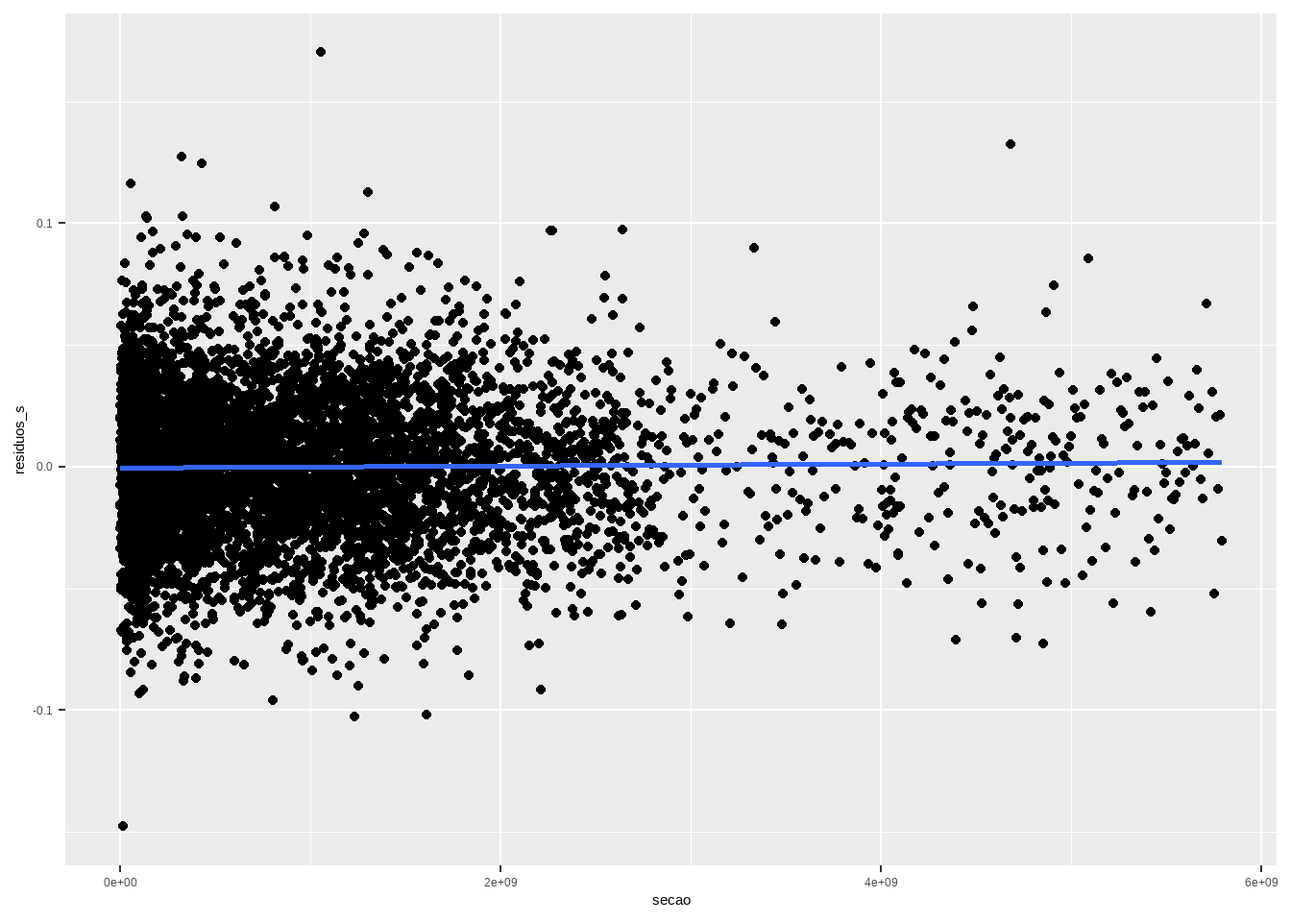
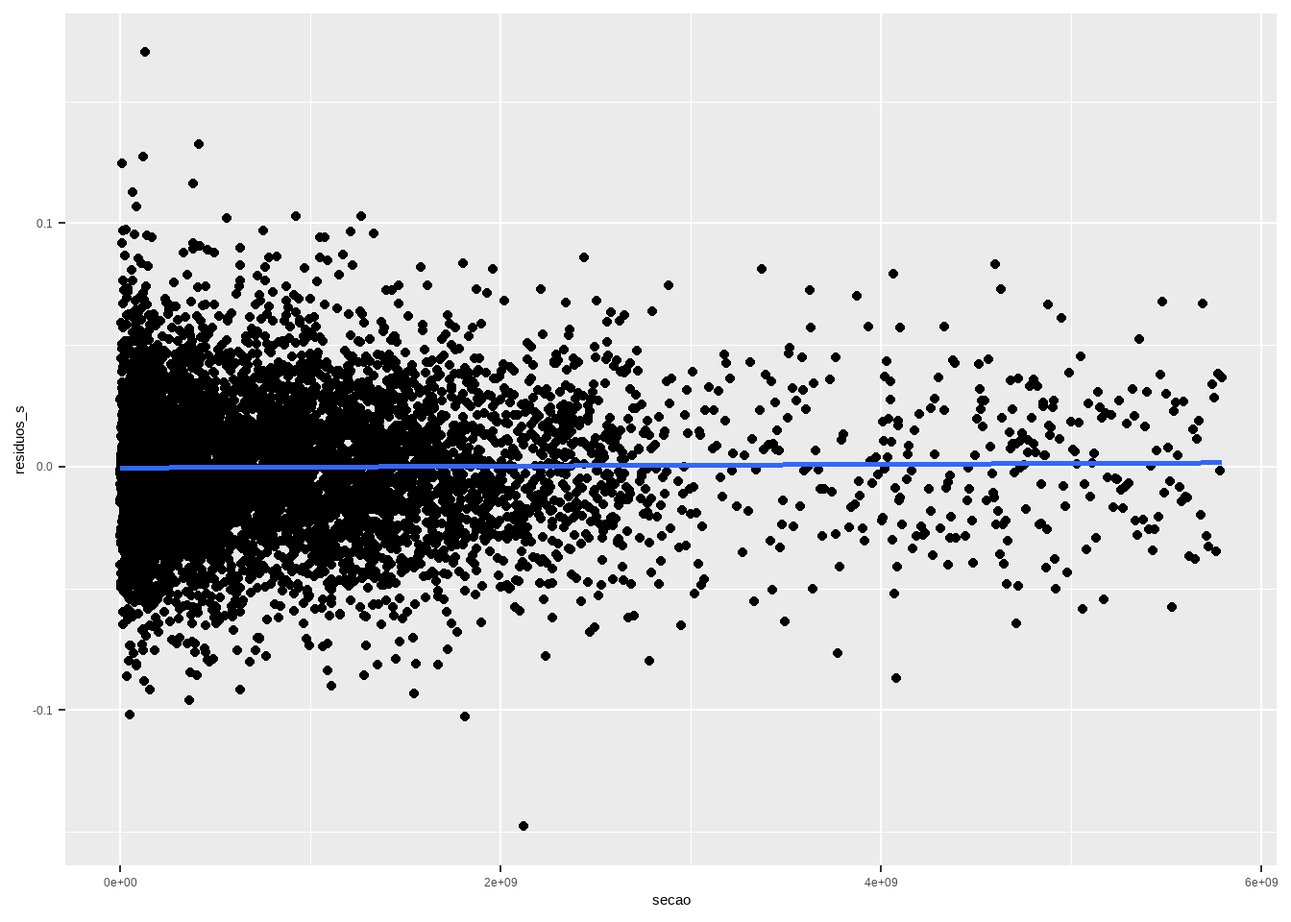
Mostrar código em R.

Changed region(s): [[0.0938, 0.1875, 0.9688, 0.7812], [0.7812, 0.6875, 0.8125, 0.7188], [0.125, 0.1562, 0.1562, 0.1875]]

diff --git a/docs/checagem.html b/docs/checagem.html
@@ -23,7 +23,7 @@
 <meta name="author" content="Manoel Galdino" />
 
 
-<meta name="date" content="2023-10-17" />
+<meta name="date" content="2023-11-07" />
 
   <meta name="viewport" content="width=device-width, initial-scale=1" />
   <meta name="apple-mobile-web-app-capable" content="yes" />
@@ -52,8 +52,6 @@
 <link href="libs/anchor-sections-1.1.0/anchor-sections.css" rel="stylesheet" />
 <link href="libs/anchor-sections-1.1.0/anchor-sections-hash.css" rel="stylesheet" />
 <script src="libs/anchor-sections-1.1.0/anchor-sections.js"></script>
-<script src="libs/kePrint-0.0.1/kePrint.js"></script>
-<link href="libs/lightable-0.0.1/lightable.css" rel="stylesheet" />
 
 
 <style type="text/css">
@@ -204,22 +202,23 @@ code span.wa { color: #60a0b0; font-weight: bold; font-style: italic; } /* Warni
 <li class="chapter" data-level="6.3.2" data-path="cef-1.html"><a href="cef-1.html#a-esperança-não-condicional-do-erro-é-zero."><i class="fa fa-check"></i><b>6.3.2</b> A esperança (não-condicional) do erro é zero.</a></li>
 <li class="chapter" data-level="6.3.3" data-path="cef-1.html"><a href="cef-1.html#o-erro-da-cef-é-não-correlacionado-com-x"><i class="fa fa-check"></i><b>6.3.3</b> O erro da CEF é não-correlacionado com X</a></li>
 </ul></li>
-<li class="chapter" data-level="6.4" data-path="cef-1.html"><a href="cef-1.html#regressão-linear-e-a-cef"><i class="fa fa-check"></i><b>6.4</b> Regressão Linear e a CEF</a>
+<li class="chapter" data-level="6.4" data-path="cef-1.html"><a href="cef-1.html#a-esperança-condicional-é-o-melhor-preditor"><i class="fa fa-check"></i><b>6.4</b> A esperança condicional é o melhor preditor</a></li>
+<li class="chapter" data-level="6.5" data-path="cef-1.html"><a href="cef-1.html#regressão-linear-e-a-cef"><i class="fa fa-check"></i><b>6.5</b> Regressão Linear e a CEF</a>
 <ul>
-<li class="chapter" data-level="6.4.1" data-path="cef-1.html"><a href="cef-1.html#mínimos-quadrados-ordinários"><i class="fa fa-check"></i><b>6.4.1</b> Mínimos Quadrados Ordinários</a></li>
-<li class="chapter" data-level="6.4.2" data-path="cef-1.html"><a href="cef-1.html#suponha-que-a-cef-é-linear-justificativa-i"><i class="fa fa-check"></i><b>6.4.2</b> Suponha que a CEF é Linear (Justificativa I)</a></li>
-<li class="chapter" data-level="6.4.3" data-path="cef-1.html"><a href="cef-1.html#é-o-melhor-preditor-linear-do-y-justificativa-ii"><i class="fa fa-check"></i><b>6.4.3</b> É o melhor preditor linear do <span class="math inline">\(Y\)</span> (justificativa II)</a></li>
-<li class="chapter" data-level="6.4.4" data-path="cef-1.html"><a href="cef-1.html#a-reta-de-regressão-é-a-aproximação-com-o-menor-erro-quadrático-médio-justificativa-iii"><i class="fa fa-check"></i><b>6.4.4</b> A reta de regressão é a aproximação com o menor erro quadrático médio (justificativa III)</a></li>
+<li class="chapter" data-level="6.5.1" data-path="cef-1.html"><a href="cef-1.html#mínimos-quadrados-ordinários"><i class="fa fa-check"></i><b>6.5.1</b> Mínimos Quadrados Ordinários</a></li>
+<li class="chapter" data-level="6.5.2" data-path="cef-1.html"><a href="cef-1.html#suponha-que-a-cef-é-linear-justificativa-i"><i class="fa fa-check"></i><b>6.5.2</b> Suponha que a CEF é Linear (Justificativa I)</a></li>
+<li class="chapter" data-level="6.5.3" data-path="cef-1.html"><a href="cef-1.html#é-o-melhor-preditor-linear-do-y-justificativa-ii"><i class="fa fa-check"></i><b>6.5.3</b> É o melhor preditor linear do <span class="math inline">\(Y\)</span> (justificativa II)</a></li>
+<li class="chapter" data-level="6.5.4" data-path="cef-1.html"><a href="cef-1.html#a-reta-de-regressão-é-a-aproximação-com-o-menor-erro-quadrático-médio-justificativa-iii"><i class="fa fa-check"></i><b>6.5.4</b> A reta de regressão é a aproximação com o menor erro quadrático médio (justificativa III)</a></li>
 </ul></li>
-<li class="chapter" data-level="6.5" data-path="cef-1.html"><a href="cef-1.html#linearidade-e-causalidade"><i class="fa fa-check"></i><b>6.5</b> Linearidade e Causalidade</a></li>
-<li class="chapter" data-level="6.6" data-path="cef-1.html"><a href="cef-1.html#modelo-só-com-intercepto"><i class="fa fa-check"></i><b>6.6</b> Modelo só com intercepto</a></li>
-<li class="chapter" data-level="6.7" data-path="cef-1.html"><a href="cef-1.html#variância-da-regressão"><i class="fa fa-check"></i><b>6.7</b> Variância da Regressão</a>
+<li class="chapter" data-level="6.6" data-path="cef-1.html"><a href="cef-1.html#linearidade-e-causalidade"><i class="fa fa-check"></i><b>6.6</b> Linearidade e Causalidade</a></li>
+<li class="chapter" data-level="6.7" data-path="cef-1.html"><a href="cef-1.html#modelo-só-com-intercepto"><i class="fa fa-check"></i><b>6.7</b> Modelo só com intercepto</a></li>
+<li class="chapter" data-level="6.8" data-path="cef-1.html"><a href="cef-1.html#variância-da-regressão"><i class="fa fa-check"></i><b>6.8</b> Variância da Regressão</a>
 <ul>
-<li class="chapter" data-level="6.7.1" data-path="cef-1.html"><a href="cef-1.html#chuva-na-jamaica"><i class="fa fa-check"></i><b>6.7.1</b> Chuva na Jamaica</a></li>
+<li class="chapter" data-level="6.8.1" data-path="cef-1.html"><a href="cef-1.html#chuva-na-jamaica"><i class="fa fa-check"></i><b>6.8.1</b> Chuva na Jamaica</a></li>
 </ul></li>
-<li class="chapter" data-level="6.8" data-path="cef-1.html"><a href="cef-1.html#variância-condicional"><i class="fa fa-check"></i><b>6.8</b> Variância condicional</a></li>
-<li class="chapter" data-level="6.9" data-path="cef-1.html"><a href="cef-1.html#efeito-marginal"><i class="fa fa-check"></i><b>6.9</b> Efeito Marginal</a></li>
-<li class="chapter" data-level="6.10" data-path="cef-1.html"><a href="cef-1.html#cef-linear-com-preditores-não-lineares"><i class="fa fa-check"></i><b>6.10</b> CEF linear com preditores não-lineares</a></li>
+<li class="chapter" data-level="6.9" data-path="cef-1.html"><a href="cef-1.html#variância-condicional"><i class="fa fa-check"></i><b>6.9</b> Variância condicional</a></li>
+<li class="chapter" data-level="6.10" data-path="cef-1.html"><a href="cef-1.html#efeito-marginal"><i class="fa fa-check"></i><b>6.10</b> Efeito Marginal</a></li>
+<li class="chapter" data-level="6.11" data-path="cef-1.html"><a href="cef-1.html#cef-linear-com-preditores-não-lineares"><i class="fa fa-check"></i><b>6.11</b> CEF linear com preditores não-lineares</a></li>
 </ul></li>
 <li class="chapter" data-level="7" data-path="estimação.html"><a href="estimação.html"><i class="fa fa-check"></i><b>7</b> - Estimação</a>
 <ul>
@@ -251,7 +250,12 @@ code span.wa { color: #60a0b0; font-weight: bold; font-style: italic; } /* Warni
 <li class="chapter" data-level="8.3" data-path="causalidade.html"><a href="causalidade.html#simulação-de-resultados-potenciais-e-causalidade"><i class="fa fa-check"></i><b>8.3</b> Simulação de Resultados Potenciais e Causalidade</a></li>
 <li class="chapter" data-level="8.4" data-path="causalidade.html"><a href="causalidade.html#referências"><i class="fa fa-check"></i><b>8.4</b> Referências</a></li>
 </ul></li>
-<li class="chapter" data-level="9" data-path="mle.html"><a href="mle.html"><i class="fa fa-check"></i><b>9</b> - MLE</a></li>
+<li class="chapter" data-level="9" data-path="mle.html"><a href="mle.html"><i class="fa fa-check"></i><b>9</b> - MLE</a>
+<ul>
+<li class="chapter" data-level="9.1" data-path="mle.html"><a href="mle.html#estimação-por-máxima-verossimilhança"><i class="fa fa-check"></i><b>9.1</b> Estimação por Máxima Verossimilhança</a></li>
+<li class="chapter" data-level="9.2" data-path="mle.html"><a href="mle.html#teste-de-hipótese"><i class="fa fa-check"></i><b>9.2</b> Teste de hipótese</a></li>
+<li class="chapter" data-level="9.3" data-path="mle.html"><a href="mle.html#regressão"><i class="fa fa-check"></i><b>9.3</b> regressão</a></li>
+</ul></li>
 <li class="chapter" data-level="10" data-path="checagem.html"><a href="checagem.html"><i class="fa fa-check"></i><b>10</b> - Checagem</a>
 <ul>
 <li class="chapter" data-level="10.1" data-path="checagem.html"><a href="checagem.html#resíduos"><i class="fa fa-check"></i><b>10.1</b> Resíduos</a></li>
@@ -267,7 +271,7 @@ code span.wa { color: #60a0b0; font-weight: bold; font-style: italic; } /* Warni
 <li class="chapter" data-level="11.1" data-path="inferencia.html"><a href="inferencia.html#normal"><i class="fa fa-check"></i><b>11.1</b> Normal</a></li>
 <li class="chapter" data-level="11.2" data-path="inferencia.html"><a href="inferencia.html#t-student"><i class="fa fa-check"></i><b>11.2</b> T-student</a></li>
 <li class="chapter" data-level="11.3" data-path="inferencia.html"><a href="inferencia.html#intervalo-de-confiança"><i class="fa fa-check"></i><b>11.3</b> Intervalo de Confiança</a></li>
-<li class="chapter" data-level="11.4" data-path="inferencia.html"><a href="inferencia.html#teste-de-hipótese"><i class="fa fa-check"></i><b>11.4</b> Teste de Hipótese</a></li>
+<li class="chapter" data-level="11.4" data-path="inferencia.html"><a href="inferencia.html#teste-de-hipótese-1"><i class="fa fa-check"></i><b>11.4</b> Teste de Hipótese</a></li>
 <li class="chapter" data-level="11.5" data-path="inferencia.html"><a href="inferencia.html#p-valor"><i class="fa fa-check"></i><b>11.5</b> P-valor</a></li>
 </ul></li>
 <li class="chapter" data-level="12" data-path="regressao-multipla.html"><a href="regressao-multipla.html"><i class="fa fa-check"></i><b>12</b> - Regressao Multipla</a>
@@ -332,6 +336,26 @@ Eis algumas propriedade dos resíduos.
 <h2><span class="header-section-number">10.2</span> Modelo no R<a href="checagem.html#modelo-no-r" class="anchor-section" aria-label="Anchor link to header"></a></h2>
 <p>Para fazer os testes do nosso modelo, vamos fazer um modelo preditivo. Vou utilizar a votação no primeiro turno presidencial de 2018 para prever o voto no segundo turno, no estado de Alagoas. Para tanto, vamos baixar os dados de votação presidencial de 2018 ao nível de seção eleitoral do portal de dados abertos do TSE para o estado de Alagoas (para ter uma base de dados pequena):
 <a href="https://dadosabertos.tse.jus.br/dataset/resultados-2018" class="uri">https://dadosabertos.tse.jus.br/dataset/resultados-2018</a></p>
+<div class="sourceCode" id="cb1"><pre class="sourceCode r"><code class="sourceCode r"><span id="cb1-1"><a href="checagem.html#cb1-1" tabindex="-1"></a><span class="fu">library</span>(data.table)</span>
+<span id="cb1-2"><a href="checagem.html#cb1-2" tabindex="-1"></a></span>
+<span id="cb1-3"><a href="checagem.html#cb1-3" tabindex="-1"></a><span class="co"># lista o nome do arquivo em csv</span></span>
+<span id="cb1-4"><a href="checagem.html#cb1-4" tabindex="-1"></a><span class="co"># unzip(here(&quot;dados&quot;, &quot;votacao_secao_2018_AL.zip&quot;), list = TRUE)</span></span>
+<span id="cb1-5"><a href="checagem.html#cb1-5" tabindex="-1"></a></span>
+<span id="cb1-6"><a href="checagem.html#cb1-6" tabindex="-1"></a></span>
+<span id="cb1-7"><a href="checagem.html#cb1-7" tabindex="-1"></a><span class="co">#read data1.csv into data frame</span></span>
+<span id="cb1-8"><a href="checagem.html#cb1-8" tabindex="-1"></a>presid_al18 <span class="ot">&lt;-</span> <span class="fu">fread</span>(<span class="fu">here</span>(<span class="st">&quot;dados&quot;</span>,<span class="st">&quot;votacao_secao_2018_BR.csv&quot;</span>), <span class="at">encoding =</span> <span class="st">&quot;Latin-1&quot;</span>)</span>
+<span id="cb1-9"><a href="checagem.html#cb1-9" tabindex="-1"></a></span>
+<span id="cb1-10"><a href="checagem.html#cb1-10" tabindex="-1"></a><span class="co"># filtrando só AL</span></span>
+<span id="cb1-11"><a href="checagem.html#cb1-11" tabindex="-1"></a></span>
+<span id="cb1-12"><a href="checagem.html#cb1-12" tabindex="-1"></a>presid_al18 <span class="ot">&lt;-</span> presid_al18 <span class="sc">%&gt;%</span></span>
+<span id="cb1-13"><a href="checagem.html#cb1-13" tabindex="-1"></a>  <span class="fu">filter</span>(SG_UF <span class="sc">==</span> <span class="st">&quot;AL&quot;</span>)</span>
+<span id="cb1-14"><a href="checagem.html#cb1-14" tabindex="-1"></a></span>
+<span id="cb1-15"><a href="checagem.html#cb1-15" tabindex="-1"></a><span class="co"># modelo voto em Bolsonaro 1t prediz voto no 2t</span></span>
+<span id="cb1-16"><a href="checagem.html#cb1-16" tabindex="-1"></a></span>
+<span id="cb1-17"><a href="checagem.html#cb1-17" tabindex="-1"></a><span class="co"># descobre o que é voto nulo e branco</span></span>
+<span id="cb1-18"><a href="checagem.html#cb1-18" tabindex="-1"></a>presid_al18 <span class="sc">%&gt;%</span></span>
+<span id="cb1-19"><a href="checagem.html#cb1-19" tabindex="-1"></a>  <span class="fu">group_by</span>(NM_VOTAVEL) <span class="sc">%&gt;%</span></span>
+<span id="cb1-20"><a href="checagem.html#cb1-20" tabindex="-1"></a>  <span class="fu">summarise</span>(<span class="fu">max</span>(NR_VOTAVEL))</span></code></pre></div>
 <pre><code>## # A tibble: 15 × 2
 ##    NM_VOTAVEL                                 `max(NR_VOTAVEL)`
 ##    &lt;chr&gt;                                                  &lt;int&gt;
@@ -350,6 +374,25 @@ Eis algumas propriedade dos resíduos.
 ## 13 VERA LUCIA PEREIRA DA SILVA SALGADO                       16
 ## 14 VOTO BRANCO                                               95
 ## 15 VOTO NULO                                                 96</code></pre>
+<div class="sourceCode" id="cb3"><pre class="sourceCode r"><code class="sourceCode r"><span id="cb3-1"><a href="checagem.html#cb3-1" tabindex="-1"></a><span class="co"># 95 e 96</span></span>
+<span id="cb3-2"><a href="checagem.html#cb3-2" tabindex="-1"></a>presid_al18_valido <span class="ot">&lt;-</span> presid_al18 <span class="sc">%&gt;%</span></span>
+<span id="cb3-3"><a href="checagem.html#cb3-3" tabindex="-1"></a>  <span class="fu">filter</span>(<span class="sc">!</span>NR_VOTAVEL <span class="sc">%in%</span> <span class="fu">c</span>(<span class="dv">95</span>,<span class="dv">96</span>)) <span class="sc">%&gt;%</span></span>
+<span id="cb3-4"><a href="checagem.html#cb3-4" tabindex="-1"></a>  <span class="fu">group_by</span>(NR_SECAO,NR_ZONA, CD_MUNICIPIO, NR_TURNO, NR_VOTAVEL ) <span class="sc">%&gt;%</span></span>
+<span id="cb3-5"><a href="checagem.html#cb3-5" tabindex="-1"></a>  <span class="fu">summarise</span>(<span class="at">validos =</span> <span class="fu">sum</span>(QT_VOTOS)) <span class="sc">%&gt;%</span></span>
+<span id="cb3-6"><a href="checagem.html#cb3-6" tabindex="-1"></a>  <span class="fu">mutate</span>(<span class="at">bol_bolsonaro =</span> NR_VOTAVEL <span class="sc">==</span> <span class="dv">17</span>,</span>
+<span id="cb3-7"><a href="checagem.html#cb3-7" tabindex="-1"></a>         <span class="at">validos_bolsonaro =</span> <span class="fu">sum</span>(validos<span class="sc">*</span>bol_bolsonaro)) <span class="sc">%&gt;%</span></span>
+<span id="cb3-8"><a href="checagem.html#cb3-8" tabindex="-1"></a>  <span class="fu">summarise</span>(<span class="at">total_validos =</span> <span class="fu">sum</span>(validos),</span>
+<span id="cb3-9"><a href="checagem.html#cb3-9" tabindex="-1"></a>            <span class="at">validos_bolsonaro =</span> <span class="fu">max</span>(validos_bolsonaro),</span>
+<span id="cb3-10"><a href="checagem.html#cb3-10" tabindex="-1"></a>            <span class="at">perc_bolsonaro =</span> validos_bolsonaro<span class="sc">/</span>total_validos) <span class="sc">%&gt;%</span></span>
+<span id="cb3-11"><a href="checagem.html#cb3-11" tabindex="-1"></a>  dplyr<span class="sc">::</span><span class="fu">select</span>(<span class="sc">-</span>total_validos) <span class="sc">%&gt;%</span></span>
+<span id="cb3-12"><a href="checagem.html#cb3-12" tabindex="-1"></a>  <span class="fu">pivot_wider</span>(<span class="at">id_cols =</span> <span class="fu">c</span>(NR_SECAO, NR_ZONA, CD_MUNICIPIO), <span class="at">names_from =</span> NR_TURNO, <span class="at">values_from =</span> perc_bolsonaro) <span class="sc">%&gt;%</span></span>
+<span id="cb3-13"><a href="checagem.html#cb3-13" tabindex="-1"></a>  <span class="fu">rename</span>(<span class="at">perc_bolso_turno1 =</span> <span class="st">&#39;1&#39;</span>,</span>
+<span id="cb3-14"><a href="checagem.html#cb3-14" tabindex="-1"></a>         <span class="at">perc_bolso_turno2 =</span> <span class="st">&#39;2&#39;</span>)</span>
+<span id="cb3-15"><a href="checagem.html#cb3-15" tabindex="-1"></a></span>
+<span id="cb3-16"><a href="checagem.html#cb3-16" tabindex="-1"></a><span class="co"># modelo de regressão</span></span>
+<span id="cb3-17"><a href="checagem.html#cb3-17" tabindex="-1"></a></span>
+<span id="cb3-18"><a href="checagem.html#cb3-18" tabindex="-1"></a>reg1 <span class="ot">&lt;-</span> <span class="fu">lm</span>(perc_bolso_turno2 <span class="sc">~</span> perc_bolso_turno1, <span class="at">data =</span> presid_al18_valido)</span>
+<span id="cb3-19"><a href="checagem.html#cb3-19" tabindex="-1"></a><span class="fu">summary</span>(reg1)</span></code></pre></div>
 <pre><code>## 
 ## Call:
 ## lm(formula = perc_bolso_turno2 ~ perc_bolso_turno1, data = presid_al18_valido)
@@ -368,10 +411,17 @@ Eis algumas propriedade dos resíduos.
 ## Residual standard error: 0.02885 on 6385 degrees of freedom
 ## Multiple R-squared:  0.9767, Adjusted R-squared:  0.9767 
 ## F-statistic: 2.673e+05 on 1 and 6385 DF,  p-value: &lt; 2.2e-16</code></pre>
+<div class="sourceCode" id="cb5"><pre class="sourceCode r"><code class="sourceCode r"><span id="cb5-1"><a href="checagem.html#cb5-1" tabindex="-1"></a>presid_al18_valido <span class="sc">%&gt;%</span></span>
+<span id="cb5-2"><a href="checagem.html#cb5-2" tabindex="-1"></a>  <span class="fu">ggplot</span>(<span class="fu">aes</span>(<span class="at">x=</span>perc_bolso_turno1, <span class="at">y=</span>perc_bolso_turno2)) <span class="sc">+</span> <span class="fu">geom_point</span>() <span class="sc">+</span> </span>
+<span id="cb5-3"><a href="checagem.html#cb5-3" tabindex="-1"></a>  <span class="fu">geom_abline</span>(<span class="at">slope =</span> <span class="fu">coef</span>(reg1)[<span class="dv">2</span>] , <span class="at">intercept =</span> <span class="fu">coef</span>(reg1)[<span class="dv">1</span>], <span class="at">colour  =</span> <span class="st">&quot;blue&quot;</span>)</span></code></pre></div>
 <p><img src="bookdownproj_files/figure-html/dados%2010-1.png" width="672" /></p>
 <div id="resíduos-contra-o-preditor" class="section level3 hasAnchor" number="10.2.1">
 <h3><span class="header-section-number">10.2.1</span> Resíduos contra o preditor<a href="checagem.html#resíduos-contra-o-preditor" class="anchor-section" aria-label="Anchor link to header"></a></h3>
 <p>Se os resíduos devem ter <span class="math inline">\(\mathbb{E}[\hat{e}|X=x] = 0\)</span>, isso significa que para cada <span class="math inline">\(x_i\)</span> os resíduos devem ter média zero. Em um gráfico, isso significa que, se eu tiver pontos suficientes na proximidade de cada <span class="math inline">\(x_i\)</span>, a dispersão dos resíduos deve ser aleatória, no sentido de não ter padrão claro, o que vai implicar uma reta horizontal cuja média é zero.</p>
+<div class="sourceCode" id="cb6"><pre class="sourceCode r"><code class="sourceCode r"><span id="cb6-1"><a href="checagem.html#cb6-1" tabindex="-1"></a>df <span class="ot">&lt;-</span> <span class="fu">data.frame</span>(<span class="at">residuos =</span> <span class="fu">residuals</span>(reg1), <span class="at">preditor =</span> presid_al18_valido<span class="sc">$</span>perc_bolso_turno1)</span>
+<span id="cb6-2"><a href="checagem.html#cb6-2" tabindex="-1"></a></span>
+<span id="cb6-3"><a href="checagem.html#cb6-3" tabindex="-1"></a>df <span class="sc">%&gt;%</span></span>
+<span id="cb6-4"><a href="checagem.html#cb6-4" tabindex="-1"></a>  <span class="fu">ggplot</span>(<span class="fu">aes</span>(<span class="at">x=</span>preditor, <span class="at">y =</span> residuos)) <span class="sc">+</span> <span class="fu">geom_point</span>() <span class="sc">+</span> <span class="fu">geom_smooth</span>(<span class="at">method=</span><span class="st">&quot;lm&quot;</span>, <span class="at">se=</span>F)</span></code></pre></div>
 <p><img src="bookdownproj_files/figure-html/residuos-preditor-1.png" width="672" /></p>
 <p>Se houver outros preditores, faça a mesma coisa e o gráfico também deve ser uma reta em cima do eixo <span class="math inline">\(x\)</span>.</p>
 </div>
@@ -384,17 +434,39 @@ Eis algumas propriedade dos resíduos.
 \mathbb{Var}[\hat{e}|X] =  \mathbb{E}[(\hat{e} - \mathbb{E}[\hat{e}|X])^2|X] = \mathbb{E}[(\hat{e} - 0)^2|X] = \mathbb{E}[\hat{e}^2|X]
 \]</span>
 Portanto, se estamos assumindo homecadisticidade, isto é, que <span class="math inline">\(\mathbb{Var}[\hat{e}|X] = \sigma^2\)</span>, podemos checar esta suposição olhando para a esperança condicional do quadrado dos resíduos. E odemos fazer isso plotando o gráfico do quadrado dos resíduos contra o preditor.</p>
+<div class="sourceCode" id="cb7"><pre class="sourceCode r"><code class="sourceCode r"><span id="cb7-1"><a href="checagem.html#cb7-1" tabindex="-1"></a>df <span class="ot">&lt;-</span> <span class="fu">data.frame</span>(<span class="at">residuos_sq =</span> <span class="fu">residuals</span>(reg1)<span class="sc">^</span><span class="dv">2</span>, <span class="at">preditor =</span> presid_al18_valido<span class="sc">$</span>perc_bolso_turno1)</span>
+<span id="cb7-2"><a href="checagem.html#cb7-2" tabindex="-1"></a></span>
+<span id="cb7-3"><a href="checagem.html#cb7-3" tabindex="-1"></a>df <span class="sc">%&gt;%</span></span>
+<span id="cb7-4"><a href="checagem.html#cb7-4" tabindex="-1"></a>  <span class="fu">ggplot</span>(<span class="fu">aes</span>(<span class="at">x=</span>preditor, <span class="at">y =</span> residuos_sq)) <span class="sc">+</span> <span class="fu">geom_point</span>() <span class="sc">+</span> <span class="fu">geom_smooth</span>(<span class="at">method=</span><span class="st">&quot;lm&quot;</span>, <span class="at">se=</span>F)</span></code></pre></div>
 <p><img src="bookdownproj_files/figure-html/residuos-sq-preditor-1.png" width="672" /></p>
 <p>A reta deve ser horizontal, e não deveria ter mais pontos acima do que abaixo da reta. A altura da reta deveria ser aproximadamente o EQM. Conjuntos de pontos persistentemente acima ou abaixo da reta são sinais de problema com alguma de nossas hipóteses, ou há heterocedasticidade (a variância muda com o preditor) ou a forma funcional do modelo está errada de algum modo. No meu gráfico, a reta não é exatamente horizontal, mas é “good enough”. Eu não me daria ao trabalhgo de estimar um modelo de regressão de mínimos quadrados ponderados (que não vamos aprender no curso) para lidar com uma variância heterocedástica.</p>
 <p>Ás vezes quando temos resíduos muito grandes, o quadrado deles fica gigante e o gráfico fica não-informativo (especialmente quando o modelo é problemático). Nesses casos, podemos plotar o valor absoluto dos resíduos, em vez do quadrado.</p>
+<div class="sourceCode" id="cb8"><pre class="sourceCode r"><code class="sourceCode r"><span id="cb8-1"><a href="checagem.html#cb8-1" tabindex="-1"></a>df <span class="ot">&lt;-</span> <span class="fu">data.frame</span>(<span class="at">residuos_abs =</span> <span class="fu">abs</span>(<span class="fu">residuals</span>(reg1)), <span class="at">preditor =</span> presid_al18_valido<span class="sc">$</span>perc_bolso_turno1)</span>
+<span id="cb8-2"><a href="checagem.html#cb8-2" tabindex="-1"></a></span>
+<span id="cb8-3"><a href="checagem.html#cb8-3" tabindex="-1"></a>df <span class="sc">%&gt;%</span></span>
+<span id="cb8-4"><a href="checagem.html#cb8-4" tabindex="-1"></a>  <span class="fu">ggplot</span>(<span class="fu">aes</span>(<span class="at">x=</span>preditor, <span class="at">y =</span> residuos_abs)) <span class="sc">+</span> <span class="fu">geom_point</span>() <span class="sc">+</span> <span class="fu">geom_smooth</span>(<span class="at">method=</span><span class="st">&quot;lm&quot;</span>, <span class="at">se=</span>F)</span></code></pre></div>
 <p><img src="bookdownproj_files/figure-html/residuos-abs-preditor-1.png" width="672" /></p>
 </div>
 <div id="resíduos-com-dados-temporais-eou-espaciais" class="section level3 hasAnchor" number="10.2.3">
 <h3><span class="header-section-number">10.2.3</span> Resíduos com dados Temporais e/ou Espaciais<a href="checagem.html#resíduos-com-dados-temporais-eou-espaciais" class="anchor-section" aria-label="Anchor link to header"></a></h3>
 <p>Com frequência nossos dados possuem uma certa ordem, seja temporal e/ou espacial. Em um modelo simples, isso não deveria importar (nossa amostra supostamente é i.i.d, e os erros populacionais são não correlacionados entre si). Se os erros forem correlacionados, podemos usar algo chamado mínimos quadrados generalizados, o que também não iremos cobrir no curso. Então, deveríamos sempre fazer um plot dos resíduos contra o tempo, ou contra o espaço. Aqui, como a ordem é apenas espacial, vamos fazer isso.</p>
 <p>Podemos fazer um plote dos resíduos contra seção/zona/município, zona/município ou município. Vamos tentar o primeiro, que possui mais granularidade.Vejamos como fica.</p>
+<div class="sourceCode" id="cb9"><pre class="sourceCode r"><code class="sourceCode r"><span id="cb9-1"><a href="checagem.html#cb9-1" tabindex="-1"></a>presid_al18_valido <span class="ot">&lt;-</span> presid_al18_valido <span class="sc">%&gt;%</span></span>
+<span id="cb9-2"><a href="checagem.html#cb9-2" tabindex="-1"></a>  <span class="fu">mutate</span>(<span class="at">id_secao =</span> <span class="fu">paste0</span>(NR_SECAO, NR_ZONA , CD_MUNICIPIO))</span>
+<span id="cb9-3"><a href="checagem.html#cb9-3" tabindex="-1"></a></span>
+<span id="cb9-4"><a href="checagem.html#cb9-4" tabindex="-1"></a>df <span class="ot">&lt;-</span> <span class="fu">data.frame</span>(<span class="at">residuos =</span> <span class="fu">residuals</span>(reg1), <span class="at">secao =</span> <span class="fu">as.numeric</span>(presid_al18_valido<span class="sc">$</span>id_secao))</span>
+<span id="cb9-5"><a href="checagem.html#cb9-5" tabindex="-1"></a></span>
+<span id="cb9-6"><a href="checagem.html#cb9-6" tabindex="-1"></a>df <span class="sc">%&gt;%</span></span>
+<span id="cb9-7"><a href="checagem.html#cb9-7" tabindex="-1"></a>  <span class="fu">ggplot</span>(<span class="fu">aes</span>(<span class="at">x=</span>secao, <span class="at">y =</span> residuos)) <span class="sc">+</span> <span class="fu">geom_point</span>() <span class="sc">+</span> <span class="fu">geom_smooth</span>(<span class="at">method=</span><span class="st">&quot;lm&quot;</span>, <span class="at">se=</span>F)</span></code></pre></div>
 <p><img src="bookdownproj_files/figure-html/residuos-coordenadas-1.png" width="672" /></p>
 <p>Uma técnica simples, que é uma versão simplificada de algo mais formal chamado “permutation test”, é plotar os resíduos permutados aleatoriamente contra a data ou espaço (no nosso caso, espaço).</p>
+<div class="sourceCode" id="cb10"><pre class="sourceCode r"><code class="sourceCode r"><span id="cb10-1"><a href="checagem.html#cb10-1" tabindex="-1"></a>presid_al18_valido <span class="ot">&lt;-</span> presid_al18_valido <span class="sc">%&gt;%</span></span>
+<span id="cb10-2"><a href="checagem.html#cb10-2" tabindex="-1"></a>  <span class="fu">mutate</span>(<span class="at">id_secao =</span> <span class="fu">paste0</span>(NR_SECAO, NR_ZONA , CD_MUNICIPIO))</span>
+<span id="cb10-3"><a href="checagem.html#cb10-3" tabindex="-1"></a></span>
+<span id="cb10-4"><a href="checagem.html#cb10-4" tabindex="-1"></a>df <span class="ot">&lt;-</span> <span class="fu">data.frame</span>(<span class="at">residuos_s =</span> <span class="fu">sample</span>(<span class="fu">residuals</span>(reg1)), <span class="at">secao =</span> <span class="fu">as.numeric</span>(presid_al18_valido<span class="sc">$</span>id_secao))</span>
+<span id="cb10-5"><a href="checagem.html#cb10-5" tabindex="-1"></a></span>
+<span id="cb10-6"><a href="checagem.html#cb10-6" tabindex="-1"></a>df <span class="sc">%&gt;%</span></span>
+<span id="cb10-7"><a href="checagem.html#cb10-7" tabindex="-1"></a>  <span class="fu">ggplot</span>(<span class="fu">aes</span>(<span class="at">x=</span>secao, <span class="at">y =</span> residuos_s)) <span class="sc">+</span> <span class="fu">geom_point</span>() <span class="sc">+</span> <span class="fu">geom_smooth</span>(<span class="at">method=</span><span class="st">&quot;lm&quot;</span>, <span class="at">se=</span>F)</span></code></pre></div>
 <p><img src="bookdownproj_files/figure-html/residuos-shufle-coordenadas-1.png" width="672" /></p>
 <p>Rodando o código algumas vezes, podemos verificar que o “jeitão” dele é muito parecido com o nosso gráfico na ordem original, o que sugere que está tudo bem com nossos resíduos com relação à correlação espacial deles.</p>
 

diff --git a/docs/404.html b/docs/404.html
@@ -23,7 +23,7 @@
 <meta name="author" content="Manoel Galdino" />
 
 
-<meta name="date" content="2023-11-06" />
+<meta name="date" content="2023-11-07" />
 
   <meta name="viewport" content="width=device-width, initial-scale=1" />
   <meta name="apple-mobile-web-app-capable" content="yes" />
